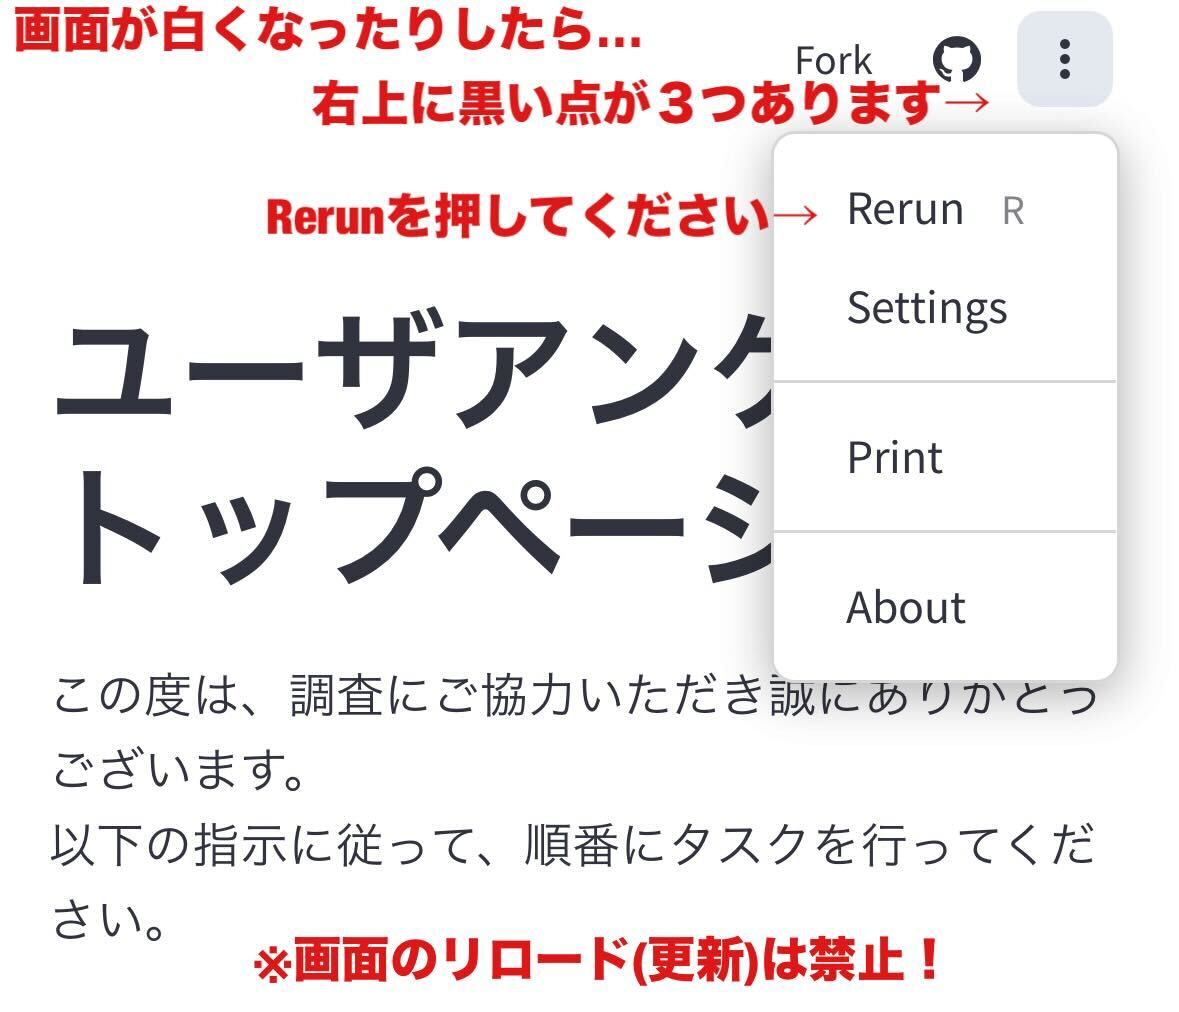
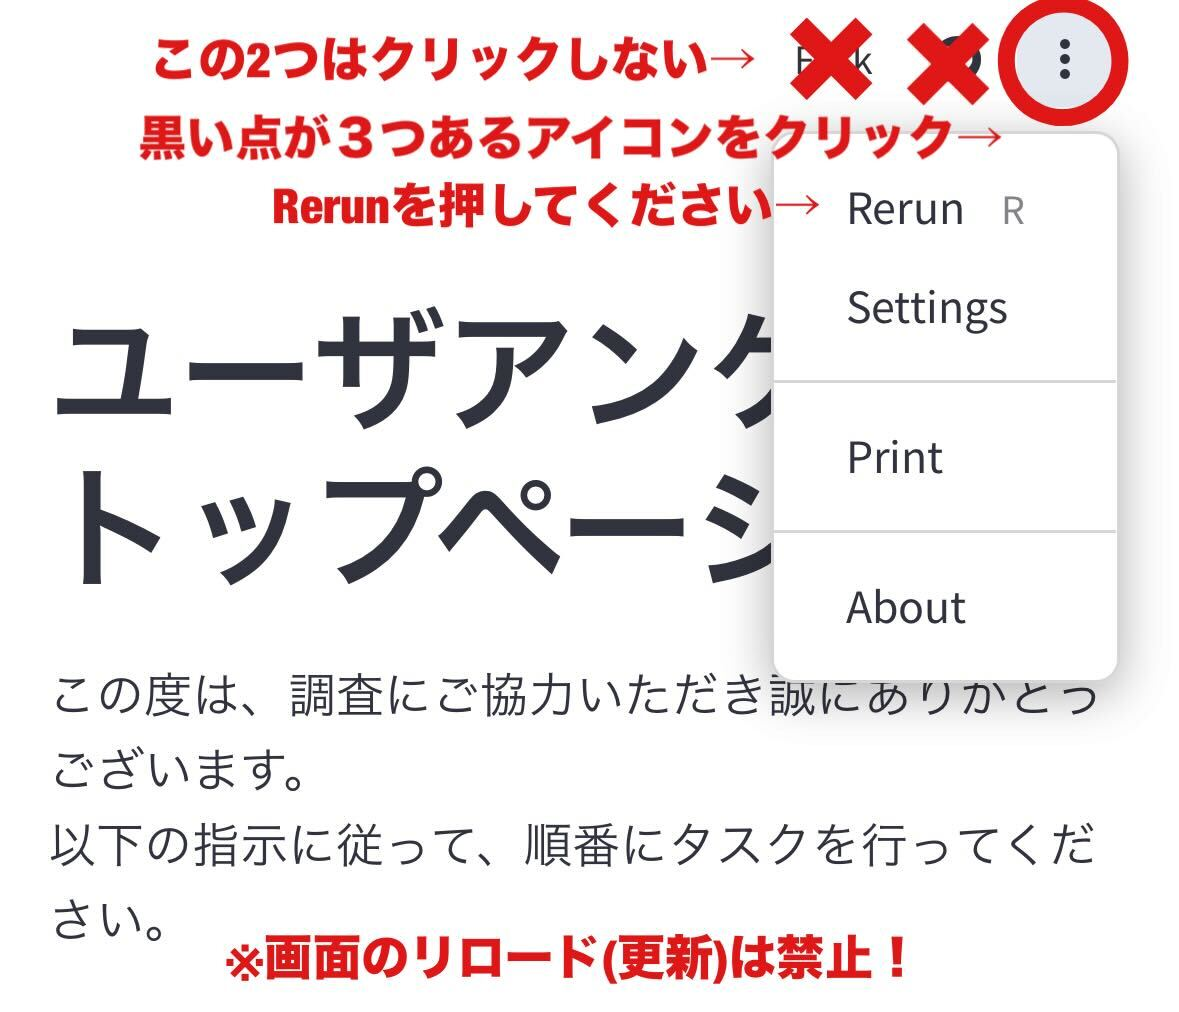
fixed ver

Changed region(s): [[0.0, 0.0, 0.9771, 0.2451], [0.1832, 0.919, 0.7939, 0.9802]]

diff --git a/honban2.py b/honban2.py
@@ -29,14 +29,6 @@ st.session_state.query_params = st.query_params
 st.session_state.file_name = st.session_state.query_params.get("user_id")
 #st.session_state.file_name = "test"
 
-hide_streamlit_style = """
-    <style>
-    #GithubIcon {visibility: hidden;}
-    footer {visibility: hidden;}
-    </style>
-"""
-st.markdown(hide_streamlit_style, unsafe_allow_html=True)
-
 # 初期状態を設定
 if "page" not in st.session_state:
     st.session_state.page = "home"
@@ -436,7 +428,7 @@ elif st.session_state.page == "t1p1":
 
                             st.success("回答を提出しました！次の問題に進んでください。")
 
-                            st.markdown("#### ちなみに正解は「平均より優れている」でした。", unsafe_allow_html=True)
+                            st.markdown("#### 正解は「平均より優れている」でした。", unsafe_allow_html=True)
 
                             st.session_state.page = "t1p2"
 
@@ -541,7 +533,7 @@ elif st.session_state.page == "t1p2":
                             st.session_state.question_t1p2_finished = True
 
                             st.success("回答を提出しました！次の問題に進んでください。")
-                            st.markdown("#### ちなみに正解は「平均より優れている」でした。", unsafe_allow_html=True)
+                            st.markdown("#### 正解は「平均より優れている」でした。", unsafe_allow_html=True)
                             st.session_state.page = "t1p3"
 
                             retries += 5
@@ -643,7 +635,7 @@ elif st.session_state.page == "t1p3":
                             st.session_state.question_t1p3_finished = True
 
                             st.success("回答を提出しました！次の問題に進んでください。")
-                            st.markdown("#### ちなみに正解は「平均以下」でした。", unsafe_allow_html=True)
+                            st.markdown("#### 正解は「平均以下」でした。", unsafe_allow_html=True)
                             st.session_state.page = "t1p4"
 
                             retries += 5
@@ -745,7 +737,7 @@ elif st.session_state.page == "t1p4":
                             st.session_state.question_t1p4_finished = True
 
                             st.success("回答を提出しました！次の問題に進んでください。")
-                            st.markdown("#### ちなみに正解は「平均以下」でした。", unsafe_allow_html=True)
+                            st.markdown("#### 正解は「平均以下」でした。", unsafe_allow_html=True)
                             st.session_state.page = "t1p5"
 
                             retries += 5
@@ -847,7 +839,7 @@ elif st.session_state.page == "t1p5":
                             st.session_state.question_t1p5_finished = True
 
                             st.success("回答を提出しました！次の問題に進んでください。")
-                            st.markdown("#### ちなみに正解は「平均より優れている」でした。", unsafe_allow_html=True)
+                            st.markdown("#### 正解は「平均より優れている」でした。", unsafe_allow_html=True)
                             st.session_state.page = "task2"
 
                             retries += 5

diff --git a/honban1.py b/honban1.py
@@ -428,7 +428,7 @@ elif st.session_state.page == "t1p1":
 
                             st.success("回答を提出しました！次の問題に進んでください。")
 
-                            st.markdown("#### ちなみに正解は「平均より優れている」でした。", unsafe_allow_html=True)
+                            st.markdown("#### 正解は「平均より優れている」でした。", unsafe_allow_html=True)
 
                             st.session_state.page = "t1p2"
 
@@ -533,7 +533,7 @@ elif st.session_state.page == "t1p2":
                             st.session_state.question_t1p2_finished = True
 
                             st.success("回答を提出しました！次の問題に進んでください。")
-                            st.markdown("#### ちなみに正解は「平均より優れている」でした。", unsafe_allow_html=True)
+                            st.markdown("#### 正解は「平均より優れている」でした。", unsafe_allow_html=True)
                             st.session_state.page = "t1p3"
 
                             retries += 5
@@ -635,7 +635,7 @@ elif st.session_state.page == "t1p3":
                             st.session_state.question_t1p3_finished = True
 
                             st.success("回答を提出しました！次の問題に進んでください。")
-                            st.markdown("#### ちなみに正解は「平均以下」でした。", unsafe_allow_html=True)
+                            st.markdown("#### 正解は「平均以下」でした。", unsafe_allow_html=True)
                             st.session_state.page = "t1p4"
 
                             retries += 5
@@ -737,7 +737,7 @@ elif st.session_state.page == "t1p4":
                             st.session_state.question_t1p4_finished = True
 
                             st.success("回答を提出しました！次の問題に進んでください。")
-                            st.markdown("#### ちなみに正解は「平均以下」でした。", unsafe_allow_html=True)
+                            st.markdown("#### 正解は「平均以下」でした。", unsafe_allow_html=True)
                             st.session_state.page = "t1p5"
 
                             retries += 5
@@ -839,7 +839,7 @@ elif st.session_state.page == "t1p5":
                             st.session_state.question_t1p5_finished = True
 
                             st.success("回答を提出しました！次の問題に進んでください。")
-                            st.markdown("#### ちなみに正解は「平均より優れている」でした。", unsafe_allow_html=True)
+                            st.markdown("#### 正解は「平均より優れている」でした。", unsafe_allow_html=True)
                             st.session_state.page = "task2"
 
                             retries += 5

diff --git a/honban3.py b/honban3.py
@@ -468,7 +468,7 @@ elif st.session_state.page == "t1p1":
 
                             st.success("回答を提出しました！次の問題に進んでください。")
 
-                            st.markdown("#### ちなみに正解は「平均以下」でした。", unsafe_allow_html=True)
+                            st.markdown("#### 正解は「平均以下」でした。", unsafe_allow_html=True)
 
                             st.session_state.page = "t1p2"
 
@@ -622,7 +622,7 @@ elif st.session_state.page == "t1p2":
 
                             st.success("回答を提出しました！次の問題に進んでください。")
 
-                            st.markdown("#### ちなみに正解は「平均より優れている」でした。", unsafe_allow_html=True)
+                            st.markdown("#### 正解は「平均より優れている」でした。", unsafe_allow_html=True)
 
                             st.session_state.page = "t1p3"
 
@@ -780,7 +780,7 @@ elif st.session_state.page == "t1p3":
 
                             st.success("回答を提出しました！次の問題に進んでください。")
 
-                            st.markdown("#### ちなみに正解は「平均より優れている」でした。", unsafe_allow_html=True)
+                            st.markdown("#### 正解は「平均より優れている」でした。", unsafe_allow_html=True)
 
                             st.session_state.page = "t1p4"
 
@@ -940,7 +940,7 @@ elif st.session_state.page == "t1p4":
 
                             st.success("回答を提出しました！次の問題に進んでください。")
 
-                            st.markdown("#### ちなみに正解は「平均以下」でした。", unsafe_allow_html=True)
+                            st.markdown("#### 正解は「平均以下」でした。", unsafe_allow_html=True)
 
                             st.session_state.page = "t1p5"
 
@@ -1100,7 +1100,7 @@ elif st.session_state.page == "t1p5":
 
                             st.success("回答を提出しました！次の問題に進んでください。")
 
-                            st.markdown("#### ちなみに正解は「平均より優れている」でした。", unsafe_allow_html=True)
+                            st.markdown("#### 正解は「平均より優れている」でした。", unsafe_allow_html=True)
 
                             st.session_state.page = "task2"
 

diff --git a/honban4.py b/honban4.py
@@ -468,7 +468,7 @@ elif st.session_state.page == "t1p1":
 
                             st.success("回答を提出しました！次の問題に進んでください。")
 
-                            st.markdown("#### ちなみに正解は「平均以下」でした。", unsafe_allow_html=True)
+                            st.markdown("#### 正解は「平均以下」でした。", unsafe_allow_html=True)
 
                             st.session_state.page = "t1p2"
 
@@ -622,7 +622,7 @@ elif st.session_state.page == "t1p2":
 
                             st.success("回答を提出しました！次の問題に進んでください。")
 
-                            st.markdown("#### ちなみに正解は「平均より優れている」でした。", unsafe_allow_html=True)
+                            st.markdown("#### 正解は「平均より優れている」でした。", unsafe_allow_html=True)
 
                             st.session_state.page = "t1p3"
 
@@ -780,7 +780,7 @@ elif st.session_state.page == "t1p3":
 
                             st.success("回答を提出しました！次の問題に進んでください。")
 
-                            st.markdown("#### ちなみに正解は「平均より優れている」でした。", unsafe_allow_html=True)
+                            st.markdown("#### 正解は「平均より優れている」でした。", unsafe_allow_html=True)
 
                             st.session_state.page = "t1p4"
 
@@ -940,7 +940,7 @@ elif st.session_state.page == "t1p4":
 
                             st.success("回答を提出しました！次の問題に進んでください。")
 
-                            st.markdown("#### ちなみに正解は「平均以下」でした。", unsafe_allow_html=True)
+                            st.markdown("#### 正解は「平均以下」でした。", unsafe_allow_html=True)
 
                             st.session_state.page = "t1p5"
 
@@ -1100,7 +1100,7 @@ elif st.session_state.page == "t1p5":
 
                             st.success("回答を提出しました！次の問題に進んでください。")
 
-                            st.markdown("#### ちなみに正解は「平均より優れている」でした。", unsafe_allow_html=True)
+                            st.markdown("#### 正解は「平均より優れている」でした。", unsafe_allow_html=True)
 
                             st.session_state.page = "task2"
 
